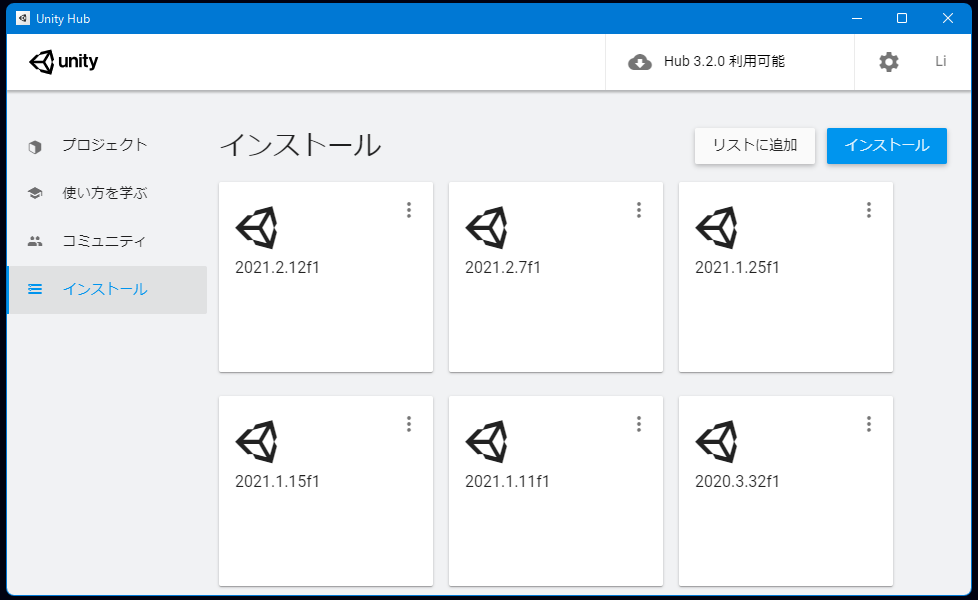
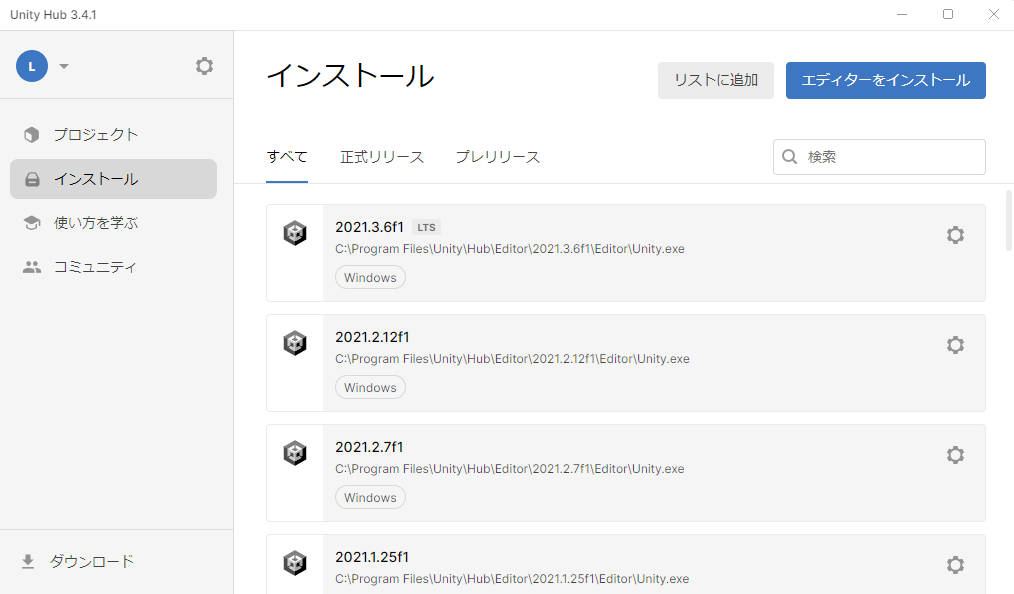
マニュアルでインストール方法の Unity Hub のバージョンが古いものだったので新しいものに変更

diff --git a/Documentation~/manual/Installation.md b/Documentation~/manual/Installation.md
@@ -3,44 +3,30 @@
 このページでは PLATEAU SDK for Unity のインストール方法を説明します。
 
 ## 対応Unityバージョンのインストール
-- PLATEAU SDK for Unity は、Unityバージョン ```2020.3``` を想定しています。  
+- PLATEAU SDK for Unity は、Unityバージョン `2020.3` を想定しています。  
   そのバージョンがインストールされていない場合は、次の手順でインストールしてください。
   - [Unity Hub をこちらからインストールします](https://unity3d.com/jp/get-unity/download)。
-  - Unity Hubを起動し、左のサイドバーから```インストール``` → 右上のボタンから```インストール``` をクリックします。
+  - Unity Hub とは、Unityのお好きなバージョンをインストールして起動することのできるソフトウェアです。
+  - Unity Hubを起動し、左のサイドバーから`インストール` → 右上のボタンから`エディターをインストール` をクリックします。
 ![](../resources/manual/installation/unityHub.png)
-  - Unity 2020.3 で始まるバージョンを選択し、```次へ```を押します。
+  - Unity 2020.3 で始まるバージョンを選択し、`インストール`を押します。
 ![](../resources/manual/installation/unityHubSelectVersion.png)
-  - ```実行``` してインストールします。
 
 ## Unityプロジェクトの作成
-- Unity Hub の左サイドバーの```プロジェクト``` を押し、右上の```新規作成```ボタンの右隣にある矢印マークをクリックします。
+- Unity Hub の左サイドバーの`プロジェクト` を押し、右上の`新しいプロジェクト`ボタンをクリックします。
 ![](../resources/manual/installation/unityHubNewProjectVersion.png)
-- 先ほどインストールしたバージョンを選択して```次へ```を押します。
-- プロジェクト名と保存先を入力し```作成```を押します。
-![](../resources/manual/installation/unityHubNewProject.png)
-
+- 新しいプロジェクトの設定画面で、次のように設定します。
+  - 画面上部の `エディターバージョン` を `2020.3` で始まる番号にします。
+  - 画面中部の`テンプレート` は `3D` を選択します。
+  - 画面右下のプロジェクト名をお好みのものに設定します。
+  - `プロジェクトを作成`ボタンを押します。
+  ![](../resources/manual/installation/unityHubnewProjectConfig.png)
+  
 ## PLATEAU Unity SDK の導入
-導入方法は ~~Github から導入するか、または~~ 配布の tgz ファイルから導入できます。  
-（Coming soon: Githubリポジトリは現在のところ非公開です。配布の tgz から導入してください。今後オープンソースで公開される予定です。）  
-
-
-### 配布の tgz ファイルから導入する場合
-- Unityのメニューバーから ```Window``` → ```Package Manager``` を選択します。
-- Package Manager ウィンドウの左上の＋ボタンから ```Add pacakge from tarball...``` を選択します。
+PLATEAU SDK for Unity は配布の tgz ファイルから導入できます。   
+- [PLATEAU SDK for Unity のリリースページ](https://github.com/Synesthesias/PLATEAU-SDK-for-Unity/releases) から tgzファイルをダウンロードします。
+- Unityのメニューバーから `Window` → `Package Manager` を選択します。
+- Package Manager ウィンドウの左上の＋ボタンから `Add pacakge from tarball...` を選択します。
   ![](../resources/manual/installation/addPackageFromTarball.png)
-- ウィンドウのパッケージ一覧に ```Plateau Unity SDK``` が表示されたら完了です。
+- ウィンドウのパッケージ一覧に `Plateau Unity SDK` が表示されたら完了です。
   ![](../resources/manual/installation/packageInstalled.png)
-
-### Githubから導入する場合
-
-> [!NOTE]
-> **Coming soon**  
-> Githubリポジトリは現在のところ非公開です。今後オープンソースで公開される予定です。
-
- - Unityのメニューバーから ```Window``` → ```Package Manager``` を選択します。
- - Package Manager ウィンドウの左上の＋ボタンから ```Add package from git URL...``` を選択します。
-![](../resources/manual/installation/packageAddFromGit.png)
- - 次のURLを入力して ```Add``` を押します。  
-   （Coming soon: リポジトリは今後公開予定です）
- - ウィンドウのパッケージ一覧に ```Plateau Unity SDK``` が表示されたら完了です。
-![](../resources/manual/installation/packageInstalled.png)

diff --git a/Documentation~/manual/ImportCityModels.md b/Documentation~/manual/ImportCityModels.md
@@ -99,9 +99,11 @@
 > **現実の景観と異なる地物について**  
 > 地物の種類で「土地利用」と「災害リスク」については、  
 > 情報の範囲を示す目印として白い板の3Dモデルが表示されます。  
-> この白い板はリアルな景観のみを求める際には邪魔になるので、  
+> この白い板はリアルな景観のみを求める際には不要になるので、  
 > 土地利用と災害リスクに関するデータが不要な場合は  
 > インポートしないか、インポート後オフにすることを推奨します。
+> ![](../resources/manual/importCityModels/fldAndLandUse.png)  
+> 上図は白い板として現れる災害リスク範囲の目印です。
   
 ### インポートの実行
 - ```モデルをインポート```ボタンを押します。
